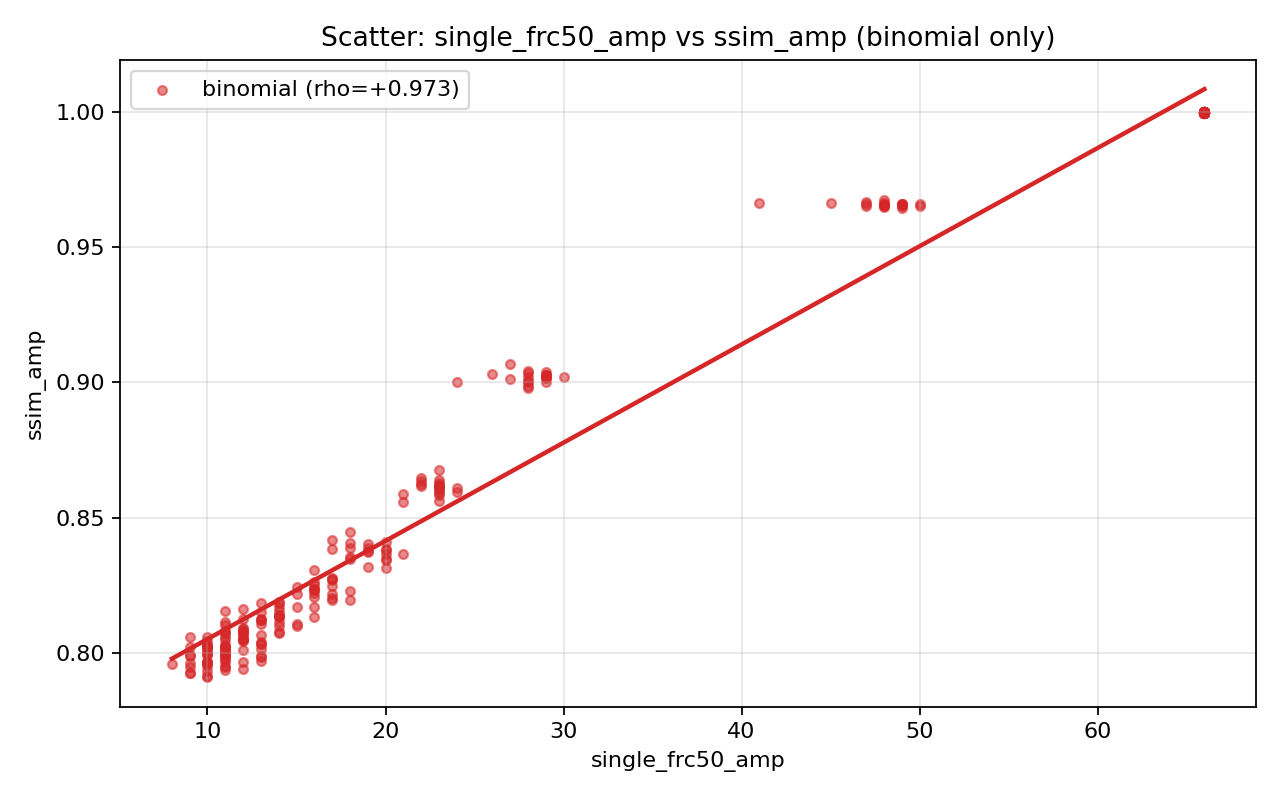
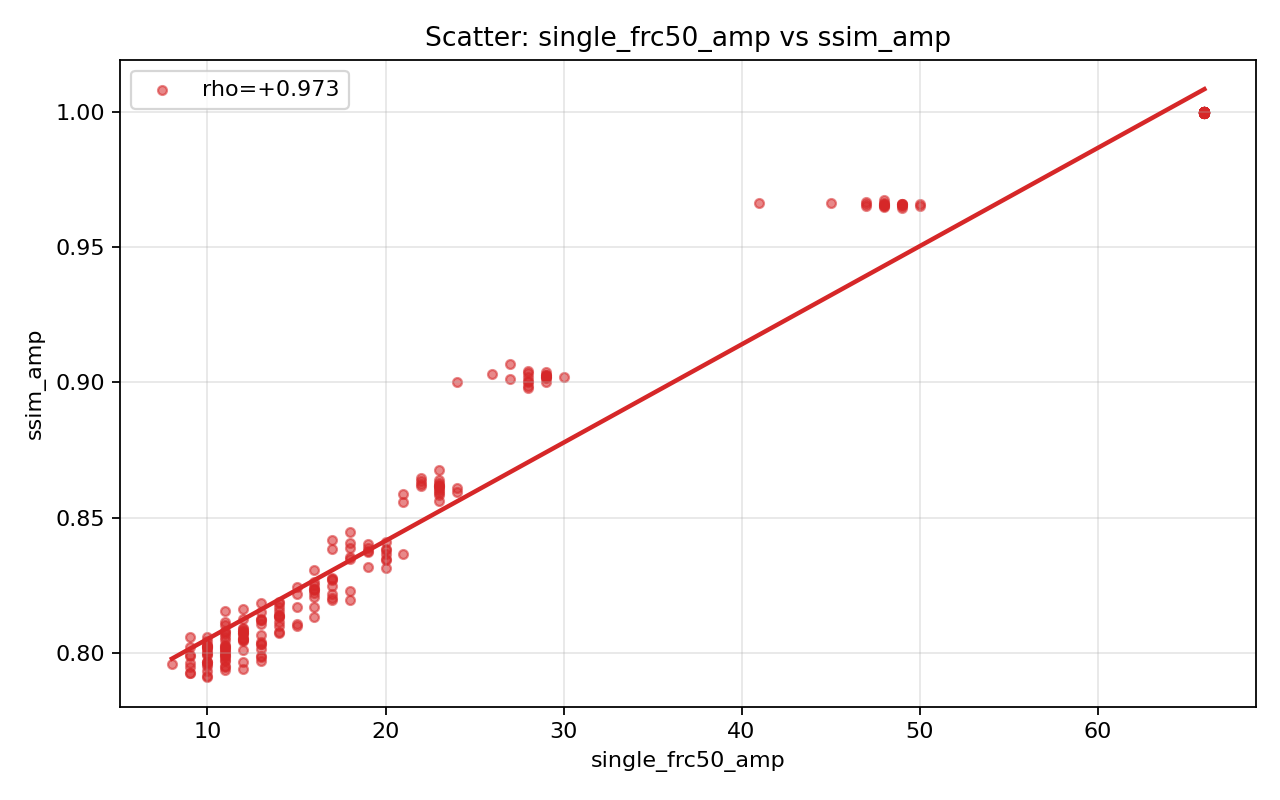
update readme

Changed region(s): [[0.25, 0.0312, 0.8438, 0.0625], [0.1562, 0.0938, 0.375, 0.125]]

diff --git a/README.md b/README.md
@@ -1,0 +1,50 @@
+# frc
+
+Utilities for single-image Fourier Ring Correlation (FRC) split construction and analysis outputs.
+
+## Python API
+```python
+from frc.single_image_frc import (
+    center_crop_even_square,
+    split_binomial_thinned,
+    split_diagonal_interleaved,
+    first_below_threshold,
+)
+```
+
+## Usage
+```bash
+# Generate/update artifacts under ../frc
+python scripts/studies/analyze_single_image_frc_alignment.py
+
+# Optional custom sweep settings
+python scripts/studies/analyze_single_image_frc_alignment.py \
+  --n-seeds 30 \
+  --n-levels 17 \
+  --level-max 2.5 \
+  --output-dir ../frc
+```
+
+Expected outputs:
+- `README.md`
+- `plots/*.png`
+- `raw_metrics.csv`
+- `summary.json`
+
+## Example Plots
+
+### single_frc50_amp trend
+![single_frc50_amp trend](plots/trend_single_frc50_amp_vs_blur.png)
+
+### Scatter (single_frc50_amp vs ssim_amp)
+![scatter](plots/scatter_single_frc50_amp_vs_ssim_amp.png)
+
+### Scatter by degradation level
+![scatter by level](plots/scatter_single_frc50_amp_vs_ssim_amp_by_level.png)
+
+### single_frc50_amp vs GT frc50_amp (by degradation level)
+![scatter frc50](plots/scatter_single_frc50_amp_vs_gt_frc50_amp_by_level.png)
+
+## Artifacts
+- Raw metrics: `../frc/raw_metrics.csv`
+- Summary JSON: `../frc/summary.json`
